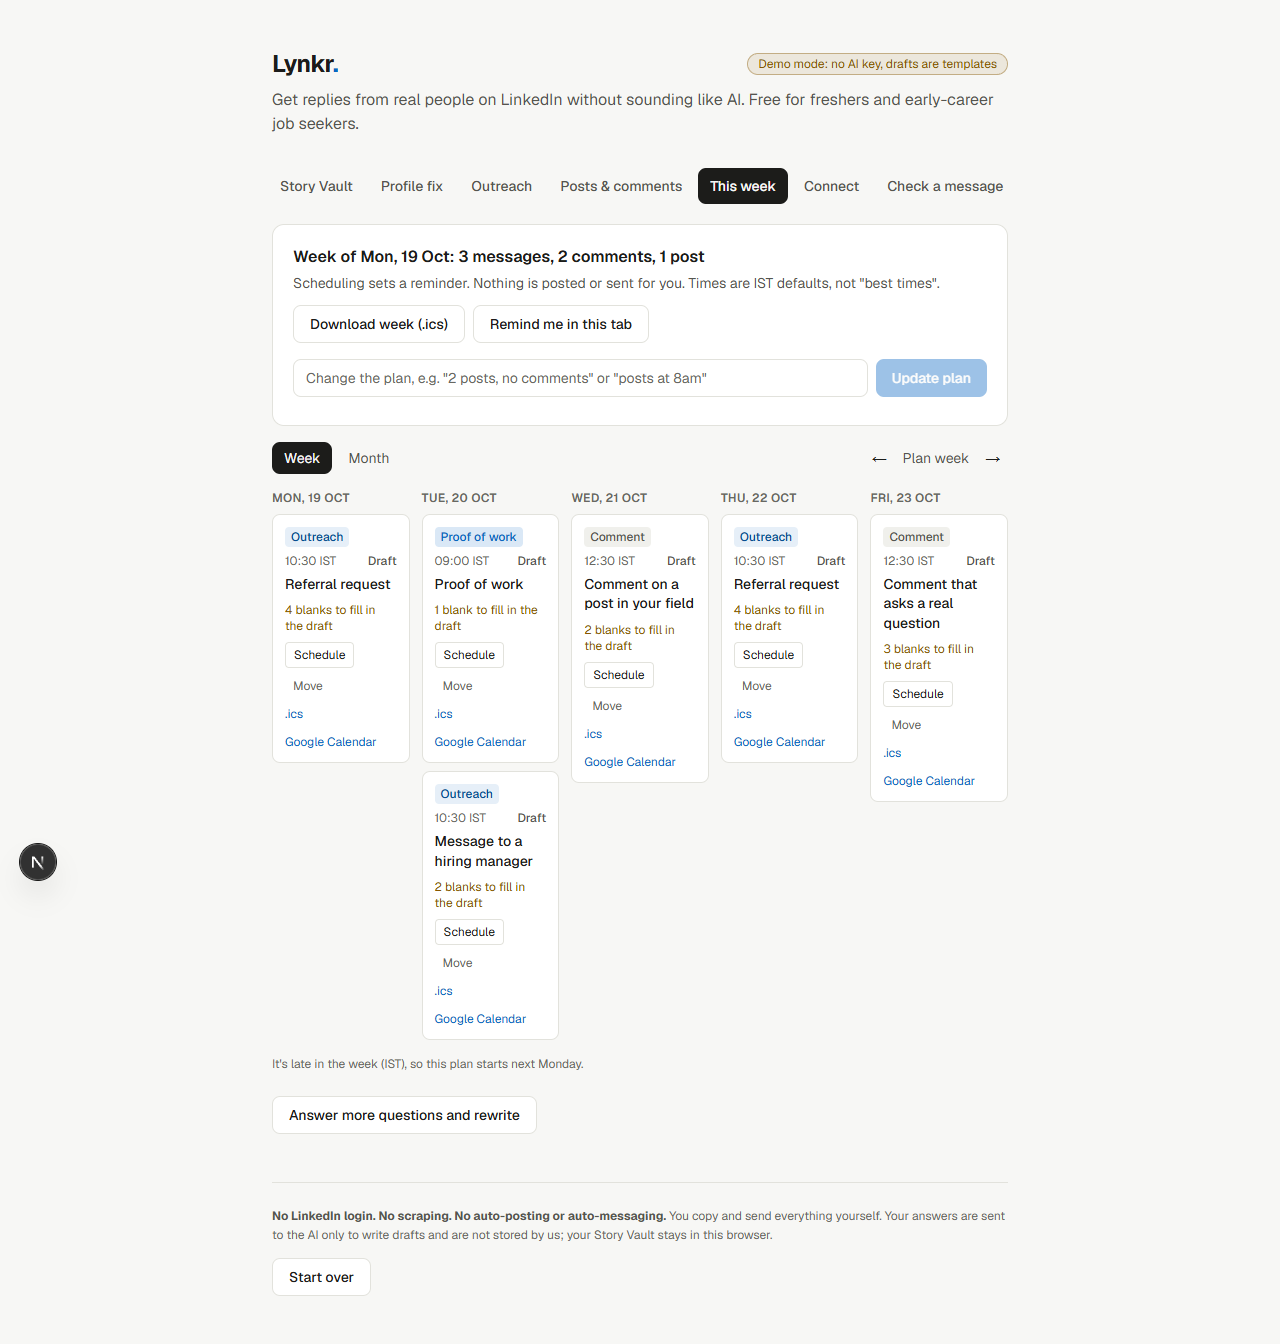
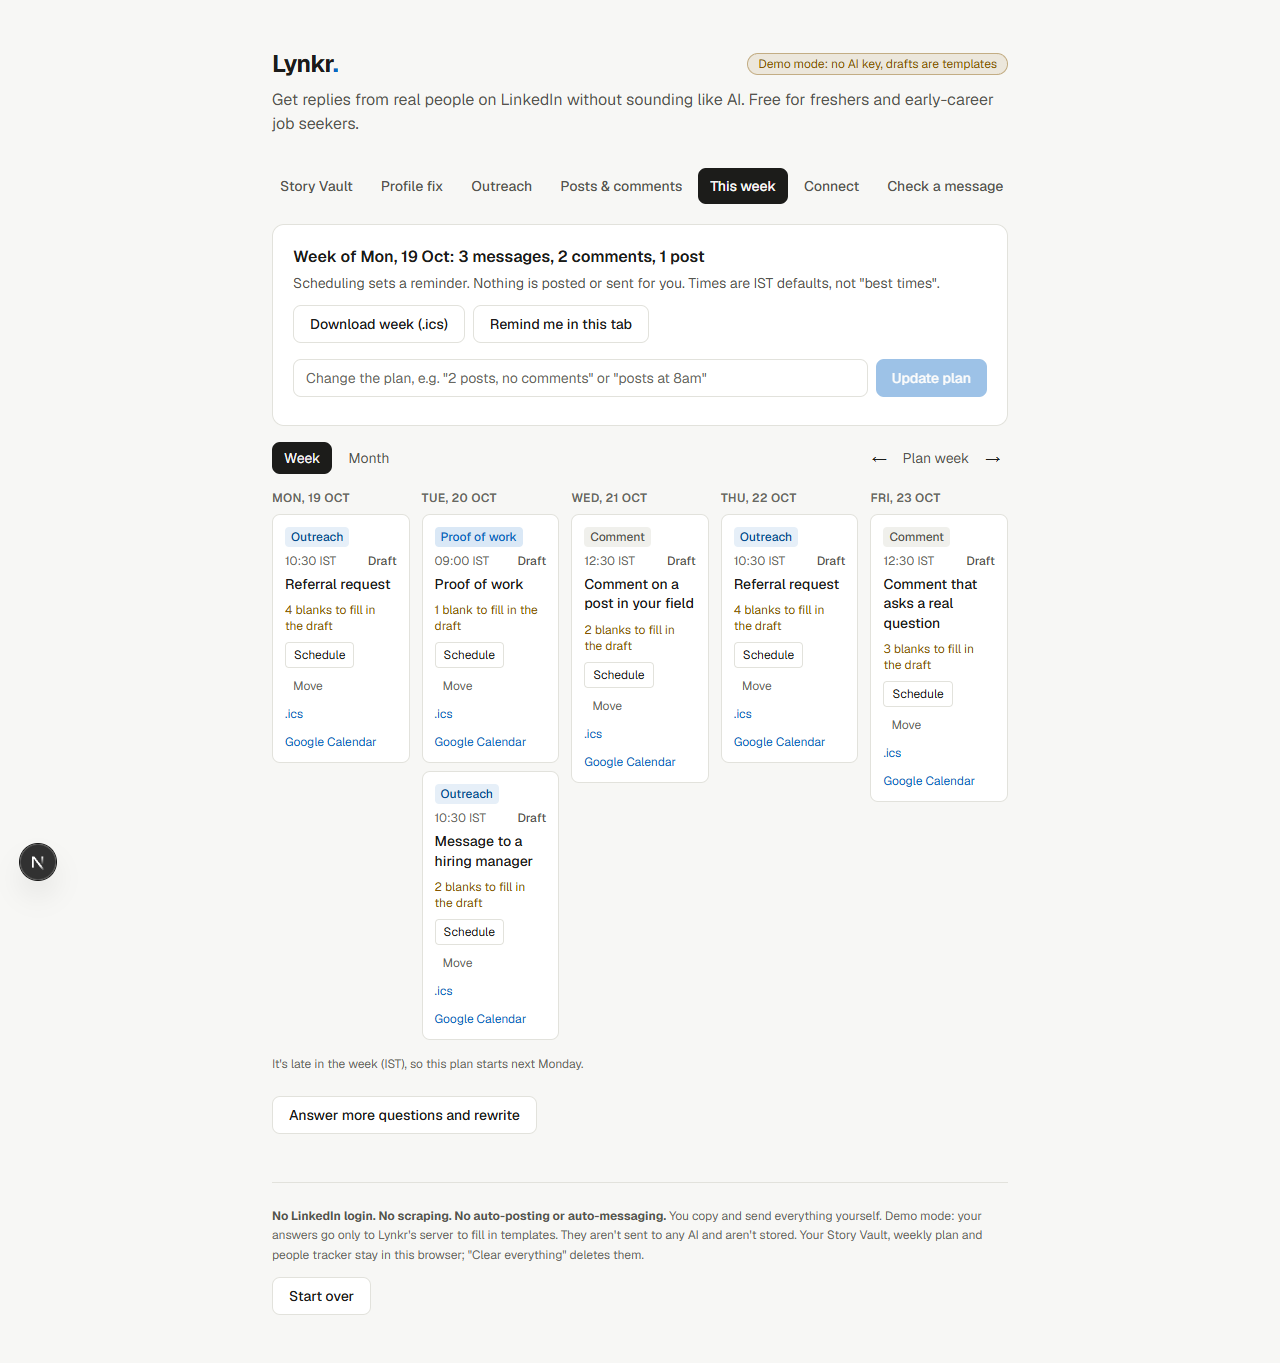
Phase 5 hardening: body-size caps, rate-limit check, privacy copy, demo
- lib/http.ts: request bodies capped before parsing (interview 32 KB,
  generate 64 KB, plan 4 KB, connect 6 MB); oversize -> 413, bad JSON
  -> 400. Used by all four API routes.
- Rate limits verified against a local fake AI: daily cap returns a
  clear 429 message.
- Privacy footer now matches the mode (demo mode sends nothing to an AI)
  and names everything kept in the browser.
- research/demo-script.md: 3-minute walkthrough, fictional profile.
- Fresh clone verified: npm ci, build, 26 unit tests, next start.
- Accessibility test waits for the client-rendered form before typing.
- Blocked on an AI key: spend check, draft evaluation, real-key e2e.

diff --git a/lib/http.ts b/lib/http.ts
@@ -1,0 +1,29 @@
+/**
+ * Reads a JSON request body with a size cap, so oversized requests are refused
+ * (413) before they are parsed. Returns the parsed body or a ready error response.
+ */
+export async function readJson(req: Request, maxBytes: number): Promise<{ body: unknown } | { error: Response }> {
+  const tooLarge = () => ({ error: Response.json({ error: "That request is too large." }, { status: 413 }) });
+  const declared = Number(req.headers.get("content-length"));
+  if (Number.isFinite(declared) && declared > maxBytes) return tooLarge();
+  let text: string;
+  try {
+    text = await req.text();
+  } catch {
+    return { error: Response.json({ error: "Invalid request." }, { status: 400 }) };
+  }
+  if (new TextEncoder().encode(text).length > maxBytes) return tooLarge();
+  try {
+    return { body: JSON.parse(text) };
+  } catch {
+    return { error: Response.json({ error: "Invalid request." }, { status: 400 }) };
+  }
+}
+
+/** Per-route body caps: generous for real use, far below anything abusive. */
+export const BODY_LIMIT = {
+  interview: 32 * 1024,
+  generate: 64 * 1024,
+  plan: 4 * 1024,
+  connect: 6 * 1024 * 1024, // screenshot up to 4 MB, base64-encoded
+} as const;

diff --git a/components/LynkrApp.tsx b/components/LynkrApp.tsx
@@ -112,8 +112,11 @@ export function LynkrApp() {
       <footer className="mt-12 border-t border-line pt-6 text-xs leading-relaxed text-faint">
         <p>
           <strong className="text-soft">No LinkedIn login. No scraping. No auto-posting or auto-messaging.</strong> You copy
-          and send everything yourself. Your answers are sent to the AI only to write drafts and are not stored by us; your
-          Story Vault stays in this browser.
+          and send everything yourself.{" "}
+          {mock
+            ? "Demo mode: your answers go only to Lynkr's server to fill in templates. They aren't sent to any AI and aren't stored."
+            : "Your answers, pasted text and screenshots go through Lynkr's server to the AI provider only to write drafts. Lynkr doesn't store them."}{" "}
+          Your Story Vault, weekly plan and people tracker stay in this browser; &quot;Clear everything&quot; deletes them.
         </p>
         {s.stage !== "setup" && (
           <Button variant="ghost" className="mt-3" onClick={reset}>

diff --git a/app/api/connect/route.ts b/app/api/connect/route.ts
@@ -1,4 +1,5 @@
 import { ConnectReply, ConnectRequest } from "@/lib/schemas";
+import { BODY_LIMIT, readJson } from "@/lib/http";
 import { callStructured, isMock, LlmError } from "@/lib/llm";
 import { CONNECT_SYSTEM, connectUser } from "@/lib/prompts";
 import { mockNote, validateImage } from "@/lib/connect";
@@ -7,12 +8,9 @@ import { checkLimits } from "@/lib/limit";
 export const maxDuration = 60;
 
 export async function POST(req: Request) {
-  let body: unknown;
-  try {
-    body = await req.json();
-  } catch {
-    return Response.json({ error: "Invalid request." }, { status: 400 });
-  }
+  const read = await readJson(req, BODY_LIMIT.connect);
+  if ("error" in read) return read.error;
+  const body = read.body;
   const parsed = ConnectRequest.safeParse(body);
   if (!parsed.success) {
     return Response.json({ error: "Paste up to 4,000 characters, or a PNG, JPG or WebP screenshot under 4 MB." }, { status: 400 });

diff --git a/app/api/plan/route.ts b/app/api/plan/route.ts
@@ -1,4 +1,5 @@
 import { PlanChatReply, PlanChatRequest } from "@/lib/schemas";
+import { BODY_LIMIT, readJson } from "@/lib/http";
 import { callStructured, isMock, LlmError } from "@/lib/llm";
 import { PLAN_CHAT_SYSTEM, planChatUser } from "@/lib/prompts";
 import { clampCounts, parsePlanChat, type PlanChange } from "@/lib/plan";
@@ -9,12 +10,9 @@ export const maxDuration = 60;
 const HHMM = /^([01]\d|2[0-3]):[0-5]\d$/;
 
 export async function POST(req: Request) {
-  let body: unknown;
-  try {
-    body = await req.json();
-  } catch {
-    return Response.json({ error: "Invalid request." }, { status: 400 });
-  }
+  const read = await readJson(req, BODY_LIMIT.plan);
+  if ("error" in read) return read.error;
+  const body = read.body;
   const parsed = PlanChatRequest.safeParse(body);
   if (!parsed.success) {
     return Response.json({ error: "Write what to change, in up to 500 characters." }, { status: 400 });

diff --git a/app/api/generate/route.ts b/app/api/generate/route.ts
@@ -1,4 +1,5 @@
 import { GenerateReply, GenerateRequest } from "@/lib/schemas";
+import { BODY_LIMIT, readJson } from "@/lib/http";
 import { callStructured, isMock, LlmError } from "@/lib/llm";
 import { GENERATE_SYSTEM, generateUser } from "@/lib/prompts";
 import { mockGenerate } from "@/lib/mock";
@@ -7,12 +8,9 @@ import { checkLimits } from "@/lib/limit";
 export const maxDuration = 120;
 
 export async function POST(req: Request) {
-  let body: unknown;
-  try {
-    body = await req.json();
-  } catch {
-    return Response.json({ error: "Invalid request." }, { status: 400 });
-  }
+  const read = await readJson(req, BODY_LIMIT.generate);
+  if ("error" in read) return read.error;
+  const body = read.body;
   const parsed = GenerateRequest.safeParse(body);
   if (!parsed.success) {
     return Response.json({ error: "Please check your answers and try again." }, { status: 400 });

diff --git a/app/api/interview/route.ts b/app/api/interview/route.ts
@@ -1,4 +1,5 @@
 import { InterviewReply, InterviewRequest } from "@/lib/schemas";
+import { BODY_LIMIT, readJson } from "@/lib/http";
 import { callStructured, isMock, LlmError } from "@/lib/llm";
 import { INTERVIEW_SYSTEM, interviewUser } from "@/lib/prompts";
 import { mockInterview } from "@/lib/mock";
@@ -10,12 +11,9 @@ const MAX_QUESTIONS = 8;
 const MIN_QUESTIONS = 4;
 
 export async function POST(req: Request) {
-  let body: unknown;
-  try {
-    body = await req.json();
-  } catch {
-    return Response.json({ error: "Invalid request." }, { status: 400 });
-  }
+  const read = await readJson(req, BODY_LIMIT.interview);
+  if ("error" in read) return read.error;
+  const body = read.body;
   const parsed = InterviewRequest.safeParse(body);
   if (!parsed.success) {
     return Response.json({ error: "Please check your answers and try again." }, { status: 400 });

diff --git a/research/demo-script.md b/research/demo-script.md
@@ -1,0 +1,33 @@
+# Lynkr demo script (about 3 minutes)
+
+Runs in demo mode (no AI key). Say so at the start: drafts are templates built from your answers; with a key, the same flow uses real AI.
+Before you start: `npm run dev`, open http://localhost:3000 in Chrome, and click "Start over" if old data shows.
+
+## Test profile (fictional, not a real person)
+- **Goal:** A full-time job · **Target role:** Data analyst
+- **Background:** Final-year B.Com at a tier-3 college in Pune, self-taught SQL, no internship yet
+- **Answers, in order:**
+  1. I built a Power BI dashboard for my college fest that tracked 40 sponsors.
+  2. It saved the team about 6 hours a week on reports.
+  3. It shows I can turn messy data into a decision a manager can use.
+  4. My first SQL join gave wrong numbers; now I check row counts before and after every join.
+  5. *(Skip)*
+  6. Analytics firms in Pune, such as Fractal.
+
+## Walkthrough
+| Time | Screen | Do | Say |
+|---|---|---|---|
+| 0:00 | Setup | Fill goal, role, background; point at the footer | "Freshers get ignored on LinkedIn because their messages are generic. Lynkr never logs in to LinkedIn and never posts for you." |
+| 0:20 | Interview | Type answers 1–4, Skip 5, answer 6 | "It asks for specifics, one question at a time: a thing you built, a number, a setback. You can also speak your answers." |
+| 0:50 | Story Vault | Show the 5 facts and their labels | "Every draft is built only from these facts. Anything it doesn't know becomes a blank, never an invented detail." |
+| 1:05 | Posts & comments | Show a post; type in the blank; Copy unlocks; read the specificity hint | "Copy stays locked until you fill the blanks. Only you know these facts." |
+| 1:25 | Outreach | Switch A stranger → Same college → Someone who knows me | "The ask grows with the relationship: a question for a stranger, a 15-minute chat for alumni, a referral only from someone who knows you." |
+| 1:50 | Check a message | Paste: *Hello sir, kindly revert urgently. Please refer me for any job.* | "Rule-based checker: no AI, same answer every time. This one gets 'Don't send yet' and says exactly why." |
+| 2:10 | This week | Show the Mon–Fri plan; type "2 posts, no comments"; schedule one item; download .ics | "A small weekly habit: 3 messages, 2 comments, 1 post. Reminders go to your calendar; you still post it yourself." |
+| 2:35 | Connect | Show the who-to-look-for cards; add a person; Mark sent; notes left drops | "It tells you what kinds of people to look for, never names. It tracks your limited monthly notes and each person from To find to Replied." |
+| 2:55 | Close | Back to Story Vault, "Clear everything" | "Everything lives in your browser. One click clears it." |
+
+## If something goes wrong
+- A tab is empty: click "Answer more questions and rewrite" to regenerate drafts.
+- Old data appears: "Start over" in the footer.
+- The round "N" badge bottom-left is Next.js's dev indicator; it isn't part of the app.

diff --git a/research/validation-report.md b/research/validation-report.md
@@ -109,3 +109,21 @@ Fixed in this pass:
 - Text inputs suppressed the focus outline (`focus:outline-none` with a 20% ring); removed so they get the shared 2 px outline.
 - On phones the active tab could sit off-screen; clicking a tab now scrolls it into view.
 - Note: a stale dev-server CSS cache hid the focus fix at first; the loose "outline isn't none" check passed on Chrome's default ring. The check now requires the real `solid 2px` outline.
+
+# Phase 5 (hardening) progress
+
+Date: 2026-10-16. Build plan `research/build-plan.md`, Phase 5.
+
+| Task | Status | Evidence |
+|---|---|---|
+| 1. Rate limits | Done | Server pointed at a local fake AI with `LYNKR_DAILY_CAP=3`: requests 1–3 returned 200, request 4 returned 429 "This free demo has reached its daily limit." Per-visitor hourly cap unit-tested (7th generate call refused, other visitors unaffected). |
+| 2. Spend check | **Blocked** | Needs an AI key and a provider spend cap. |
+| 3. Fresh clone runs from the README | Done | Cloned the private repo, `npm ci`, `npm run build`, `npm test` (26 pass), `next start` → home 200, `/api/status` demo mode. |
+| 4. Demo script | Done | `research/demo-script.md`, 3 minutes, fictional test profile. |
+| 5. Privacy copy vs spec step 9 | Done | Footer said answers "are sent to the AI" even in demo mode, where nothing reaches an AI. Now matches the mode, and names everything kept in the browser (vault, plan, tracker). Server code logs nothing (no `console` calls in `app/` or `lib/`). |
+
+Also hardened (from the plan's security rules):
+- Request bodies are size-capped before parsing (`lib/http.ts`): 32 KB interview, 64 KB generate, 4 KB plan, 6 MB connect. Oversize → 413, malformed JSON → 400. Checked with curl.
+
+Known limit, not fixed:
+- Per-visitor limits key on `x-forwarded-for`, which a client can set unless a hosting proxy overwrites it. The daily cap and the provider's spend limit are the real protection. Recheck on whatever host Lynkr is deployed to.

diff --git a/CONTEXT.md b/CONTEXT.md
@@ -11,6 +11,7 @@ A free "get-noticed" coach for Indian freshers and early-career job seekers, bui
 - **Weekly plan + calendar built and validated (2026-10-16):** "This week" tab; spec `research/feature-spec.md`, tests `research/acceptance-tests.md`, results `research/validation-report.md` (all 19 acceptance tests pass in demo mode). `npm test` (unit) and `npm run test:e2e` (Playwright on installed Chrome).
 - **Ask ladder built and validated (2026-10-16):** Outreach tab picks the first message by relationship (stranger: one question; alumni: 15-minute chat; knows you: referral) plus a follow-up; spec `research/spec-ask-ladder.md`, results in `research/validation-report.md` (L1–L7 pass).
 - **Connect Coach built and validated (2026-10-16):** "Connect" tab with who-to-look-for cards (kinds of people, LinkedIn people-search links, never names), a ≤200-character note writer from pasted text or a screenshot (screenshots need an AI key), a monthly note budget (default 3) and a one-at-a-time people tracker (To find → Sent → Accepted → Messaged → Replied, cap 5/week). Spec `research/spec-connect-coach.md`; C1–C13 pass in demo mode (`research/validation-report.md`). AI path untested (no key).
+- **Build plan Phases 4 and 5 done (2026-10-16)** except what needs an AI key: the 5-profile draft evaluation, a real-key e2e run and the spend check. Accessibility (keyboard, focus, labels, contrast), 375 px, Chrome + Edge, body-size caps, rate limits, fresh-clone run and a demo script (`research/demo-script.md`) are done; details in `research/validation-report.md`.
 - All phase 1 spec features are now built. Voice input not testable here; Aryan to test the mic.
 - Git: repo at `app/`, branch `master`. Committed and pushed to `aryan12334567/Lynkr` (private, created by Aryan).
 - `ANTHROPIC_API_KEY` is not set and is not needed during planning. Mock mode runs the whole flow without a key.

diff --git a/README.md b/README.md
@@ -34,7 +34,8 @@ Open http://localhost:3000.
 ## Tests
 ```bash
 npm test            # unit tests (weekly plan, calendar files, chat parser)
-npm run test:e2e    # browser tests of the full flow; needs `npm run dev` running and Google Chrome installed
+npm run test:e2e    # browser tests (flow + accessibility); needs `npm run dev` running and Google Chrome
+LYNKR_BROWSER=msedge npm run test:e2e   # same, on Microsoft Edge
 ```
 
 ## Environment
@@ -56,6 +57,9 @@ components/         UI: setup, interview (with voice), results tabs, draft card,
 tests/              unit tests and the browser test
 docs/               screenshots
 ```
+
+## Demo
+A 3-minute walkthrough with a fictional test profile: [`research/demo-script.md`](research/demo-script.md).
 
 ## Rules
 - No LinkedIn login, scraping, auto-posting or automated sending.

diff --git a/research/build-plan.md b/research/build-plan.md
@@ -1,6 +1,6 @@
 # Lynkr build plan (web app)
 
-Status (2026-10-16): Phases 0, 1 (public pages only), 2 and 3 done for every phase 1 feature; Phase 4 done except tasks blocked on an AI key (draft evaluation, real-key e2e) and Firefox/Safari; Phase 5 in progress. Results: `research/validation-report.md`. Original status line: draft for review; Aryan said "go" on 2026-10-16.
+Status (2026-10-16): Phases 0, 1 (public pages only), 2 and 3 done for every phase 1 feature; Phase 4 done except tasks blocked on an AI key (draft evaluation, real-key e2e) and Firefox/Safari; Phase 5 done except the spend check (needs a key). Results: `research/validation-report.md`. Original status line: draft for review; Aryan said "go" on 2026-10-16.
 
 ## 1. Scope and boundaries
 
